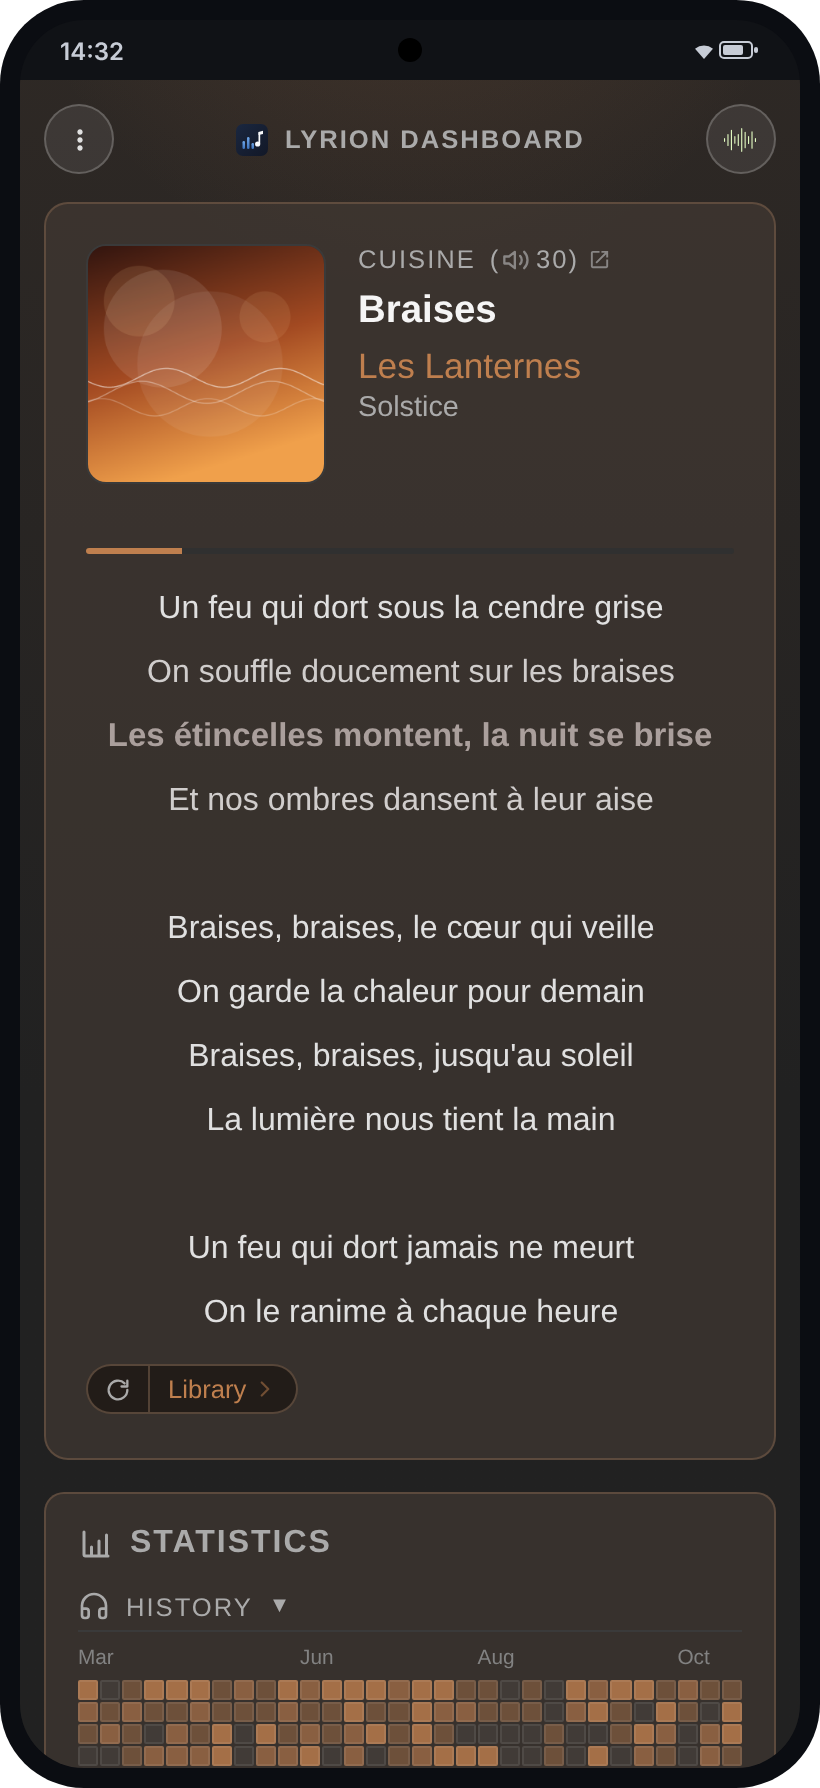
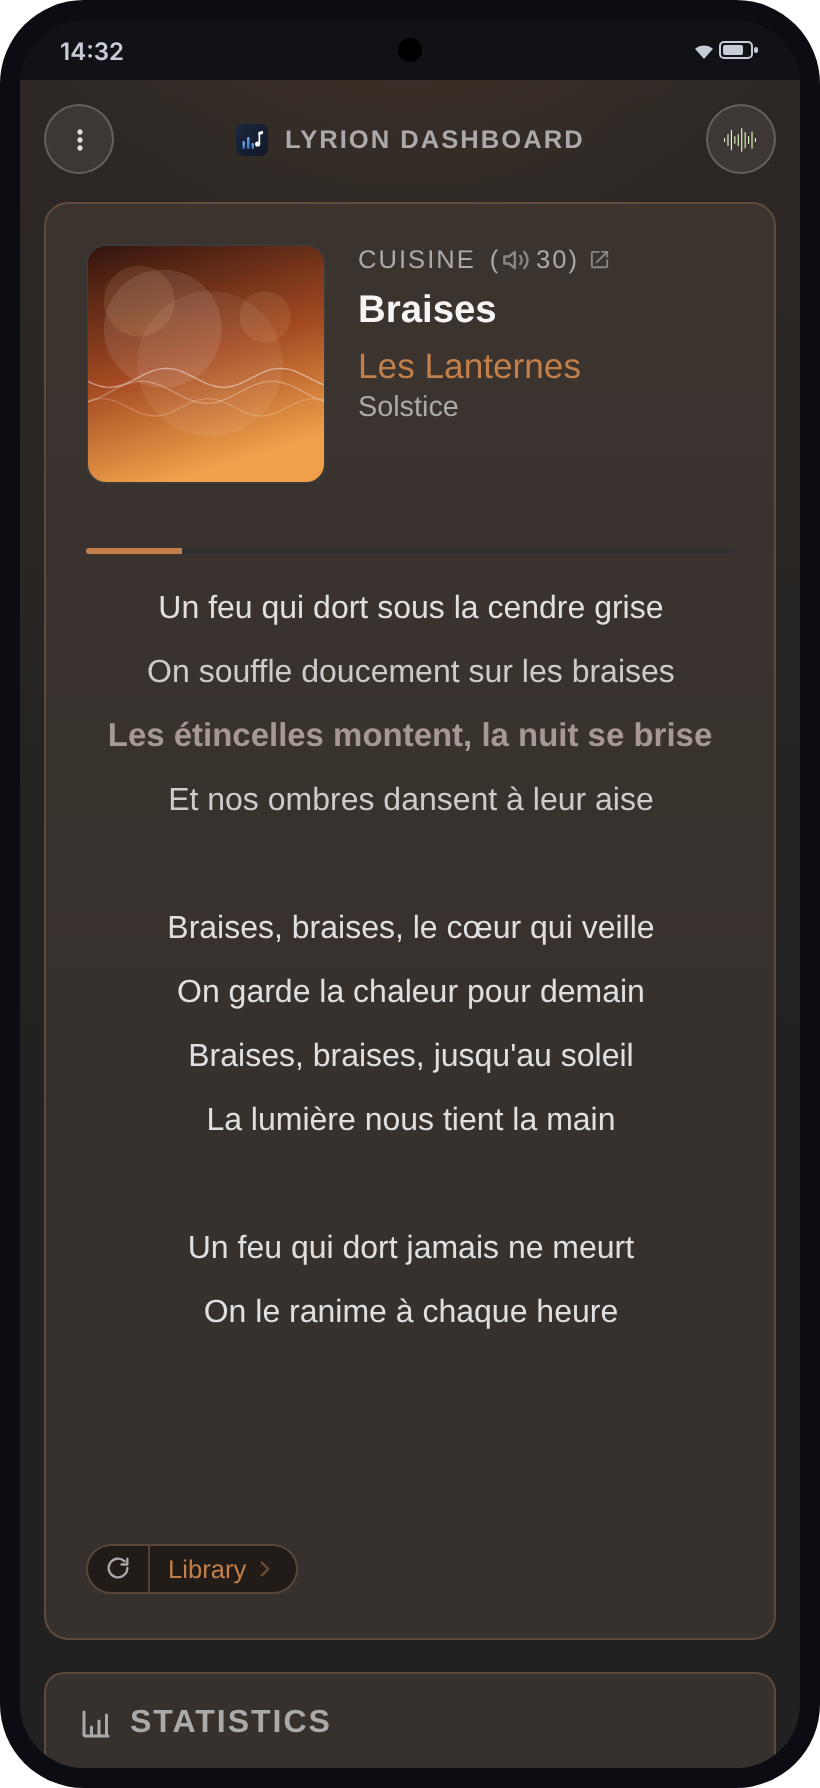
feat(nowplaying): fit the phone card to the screen, with the stats panel peeking under it (#162)
* feat(nowplaying): split the phone page into a lyrics screen and a stats screen

On the narrow layout the lyrics sat in a 420px box scrolling inside the
scrolling page, and where the card ended was set by that cap rather
than the screen, so the stats panel and its calendar showed up half in
view under the lyrics.

When the track has lyrics, the card is now fitted to the viewport in
portrait as it already was in landscape (minus the in-app header), and
a mandatory scroll snap makes the page two screens: the card, then the
stats panel. Without lyrics, or idle, the card stays compact with the
stats right under it, as before. The condition is the version cycle
being non-empty, so the hidden stop never shrinks the card under the
finger, which also leaves holdLyricsHeight with nothing to do.

With the stats panel a screen of its own, its groups no longer fold
under 860px, and the calendar draws days down to 7px there, about 41
weeks on a 390px phone instead of 30.

Claude-Session: https://claude.ai/code/session_016eBy9VSY9TVJAsZPgDEpkV

* fix(nowplaying): let the stats panel peek under the phone card, no snap

The full-screen card gave no hint that the stats panel was below it,
and the mandatory snap made the oversized stats screen feel stuck in
place while it scrolled.

The snap is gone, so the page scrolls freely. In portrait the fitted
card now stops 64px short of the screen's bottom, leaving the stats
panel's top edge and title in view; in landscape it keeps the full
[…]

Changed region(s): [[0.0915, 0.8305, 0.9146, 1.0], [0.2134, 0.769, 0.3049, 0.7998], [0.122, 0.769, 0.1829, 0.7998]]

diff --git a/static/style.css b/static/style.css
@@ -32,6 +32,8 @@
     --text-on-accent: #1a1a1a; /* dark glyphs/labels on accent-filled controls */
     --border-color: #3a3a3a;   /* hairlines: rules, cover edge */
     --page-pad: 16px;          /* body gutter, subtracted by the viewport-fitting calc */
+    --header-h: 0px;           /* the in-app header's height with its margin, subtracted likewise */
+    --stats-peek: 64px;        /* the stats panel's top a fitted narrow card leaves in view, gutter included */
     --surface: #303030;        /* raised neutral fills: progress track, cards */
     --empty-fill: rgba(255, 255, 255, 0.05);  /* a play level never reached, a day without plays */
     --cell-edge: inset 0 0 0 1px rgba(255, 255, 255, 0.08);
@@ -1192,10 +1194,16 @@ body.in-app .np-pull {
     display: none;
 }
 
+body.in-app {
+    /* The header's tallest child is a 2.2rem .lyrion-link. */
+    --header-h: calc(2.2rem + 14px);
+}
+
 body.in-app .page-header {
     display: grid;
     grid-template-columns: 1fr auto 1fr;
     align-items: center;
+    height: 2.2rem;
     margin-bottom: 14px;
 }
 
@@ -1400,8 +1408,8 @@ body.in-app .page-header {
     color: var(--text);
 }
 
-/* The stacked card grows with the lyrics, so the enlarged cover squares it off. */
 @media (max-width: 860px) and (min-height: 601px) {
+    /* The stacked card is taller than wide, so the enlarged cover squares it off. */
     .left-panel.is-zoomed .now-playing {
         /* Definite, so the ratio squares the card off the panel's width; left
            auto, the animated height would drive the width instead. */
@@ -1553,8 +1561,8 @@ body.in-app .page-header {
     }
 }
 
-/* Floor the card, per cover size, so the idle mosaic and a lyrics-less playing
-   card share a height instead of the card growing when playback starts. */
+/* Floor the compact card, per cover size, so the idle mosaic and a lyrics-less
+   playing card share a height instead of the card growing when playback starts. */
 @media (min-width: 541px) and (max-width: 860px) {
     .now-playing {
         min-height: 345px;
@@ -1578,33 +1586,39 @@ body.in-app .page-header {
     }
 }
 
-/* Narrow landscape keeps the scrollable page — the stats panel is below the
-   fold — but fits the card to the visible viewport so nothing is cut off. */
-@media (max-height: 600px) and (orientation: landscape) and (max-width: 860px) {
-    .left-panel {
+/* With lyrics, the narrow card fills the viewport but for --stats-peek, which leaves
+   the stats panel's top in view; must match fitLyrics in nowplaying.js. */
+@media (max-width: 860px) and (orientation: landscape) {
+    :root {
+        --stats-peek: var(--page-pad);
+    }
+}
+
+@media (max-width: 860px) {
+    .lyrics-fit .left-panel:not(.is-zoomed) {
         display: flex;
         flex-direction: column;
         /* dvh, as in the fixed layout above. */
-        height: calc(100vh - 2 * var(--page-pad));
-        height: calc(100dvh - 2 * var(--page-pad));
+        height: calc(100vh - var(--page-pad) - var(--header-h) - var(--stats-peek));
+        height: calc(100dvh - var(--page-pad) - var(--header-h) - var(--stats-peek));
     }
-    .now-playing {
+    .lyrics-fit .now-playing {
         flex: 1 1 auto;
-        /* After the card's min-height floors above, which this overrides. */
         min-height: 0;
         grid-template-rows: auto 1fr;
         overflow: hidden;
     }
-    .np-lyrics-block {
+    .lyrics-fit .np-lyrics-block {
         display: flex;
         flex-direction: column;
         min-height: 0;
         /* The card's align-items:start would size this to its content. */
         align-self: stretch;
     }
-    .np-lyrics {
+    .lyrics-fit .np-lyrics {
         /* Basis 0, as in the fixed layout. */
         flex: 1 1 0;
+        max-height: none;
     }
 }
 

diff --git a/static/nowplaying.js b/static/nowplaying.js
@@ -623,8 +623,15 @@ function versionLength(version) {
     return ' \u00b7 ' + Math.floor(secs / 60) + ':' + ('0' + (Math.round(secs) % 60)).slice(-2);
 }
 
+// Stacked, a card with lyrics is fitted to the screen; without, it stays compact over the stats.
+function fitLyrics() {
+    document.documentElement.classList.toggle('lyrics-fit',
+        versions.length > 0 && !nowPlaying.classList.contains('is-empty'));
+}
+
 // Callers run right after setLyrics(), so lrcLines tells whether the text on screen is synced.
 function updateSource() {
+    fitLyrics();
     if (!el.source) { return; }
     var version = versions[versionIdx];
     var label = version && (lyricsHidden ? I18N.lyrics_hidden_chip : sourceLabel(version));
@@ -764,7 +771,6 @@ function landOnVersions(current) {
 if (el.source) {
     el.source.addEventListener('click', function() {
         if (!versions.length) { return; }
-        holdLyricsHeight();
         if (lyricsHidden) {
             rememberHidden(false);
             showVersion(0);
@@ -776,23 +782,6 @@ if (el.source) {
         }
     });
 }
-
-// Released on a width change only: the mobile URL bar resizes the height on scroll.
-var heldWidth = 0;
-function holdLyricsHeight() {
-    // The fitted layouts size the box from the viewport (flex-basis 0), not from its text.
-    if (getComputedStyle(el.lyrics).flexBasis === '0px') { return; }
-    el.lyrics.style.minHeight = el.lyrics.offsetHeight + 'px';
-    heldWidth = window.innerWidth;
-}
-
-function releaseLyricsHeight() {
-    el.lyrics.style.minHeight = '';
-}
-
-window.addEventListener('resize', function() {
-    if (window.innerWidth !== heldWidth) { releaseLyricsHeight(); }
-});
 
 function setSearching(on) {
     searching = on;
@@ -1262,6 +1251,7 @@ function render(data) {
     if (!data || !data.track_id) {
         nowPlaying.classList.add('is-empty');
         nowPlaying.classList.remove('is-paused');
+        fitLyrics();
         loadMosaic();
         startMosaic();
         // The listens that just ended reorder the pile, so the next playback refetches it.
@@ -1317,7 +1307,6 @@ function render(data) {
     var trackKey = [data.track_id, data.title, data.artist, data.album].join('|');
     if (trackKey !== lastTrackKey) {
         lastTrackKey = trackKey;
-        releaseLyricsHeight();
         currentTrack = data;
         // COVER_SIZE is the /cover route's cap; remote artwork has no resize form.
         el.cover.src = data.artwork_url
@@ -1869,6 +1858,13 @@ var calendarShown = '';
 var calendarData = null;
 // The smallest day the expanded strip draws; it shows as many recent weeks as fit at that size.
 var CALENDAR_MIN_DAY_PX = 10;
+var CALENDAR_MIN_DAY_PX_STACKED = 7;
+// The stacked layout, where the stats panel spans the page; must match style.css.
+var STACKED_MQ = '(max-width: 860px)';
+
+function isStacked() {
+    return !!(window.matchMedia && window.matchMedia(STACKED_MQ).matches);
+}
 // A month is four or five week columns, too narrow for its name in the side panel.
 var CALENDAR_LABEL_WEEKS = 6;
 // The shortest span the strip draws, which caps the size of its days.
@@ -1909,7 +1905,7 @@ function renderCalendar(calendar) {
     if (!box) { return; }
     calendarData = calendar;
     box.hidden = !calendar;
-    var columns = calendar ? Math.max(1, Math.floor((box.clientWidth + 1) / (CALENDAR_MIN_DAY_PX + 1))) : 0;
+    var columns = calendar ? Math.max(1, Math.floor((box.clientWidth + 1) / ((isStacked() ? CALENDAR_MIN_DAY_PX_STACKED : CALENDAR_MIN_DAY_PX) + 1))) : 0;
     var key = JSON.stringify(calendar) + '|' + columns;
     if (key === calendarShown) { return; }
     calendarShown = key;

diff --git a/.claude/skills/frontend/SKILL.md b/.claude/skills/frontend/SKILL.md
@@ -67,7 +67,7 @@ The `body.in-app` header is the one place held out of that tinting: `.lyrion-lin
 
 ## Fitting the viewport
 
-Two regimes, split at 861px wide. Above it the page itself is the viewport (`html`/`body` at `100dvh`, `overflow: hidden`) and every overflowing region scrolls internally. Below it the page scrolls, because the stats panel wraps under the card — but the card is still fitted to the visible viewport in landscape (`.left-panel` at `100dvh` minus the body gutter), so the lyrics box and the mode row under it are never left off screen. Both work the same way: the card is a grid of `auto 1fr` rows, `.np-lyrics-block` stretches into the `1fr` one, and `.np-lyrics` takes what is left with `flex: 1 1 0` — a basis of `auto` would size it from the synced lyrics' full content height and push the row below out of view. `100dvh`, never `100vh`, which is iOS Safari's *large* viewport. Beside the card, the stats panel is a quarter of the viewport clamped to 320–400px: 320px up to 1280px wide, where the card is already tight, and no wider than 400px so the card keeps the room and a stat's label stays near its figure.
+Two regimes, split at 861px wide. Above it the page itself is the viewport (`html`/`body` at `100dvh`, `overflow: hidden`) and every overflowing region scrolls internally. Below it the page scrolls, because the stats panel wraps under the card, and what the card does depends on whether the track has lyrics. With at least one version in the cycle (`fitLyrics` sets `html.lyrics-fit`), the card is fitted to the visible viewport (`.left-panel` at `100dvh` minus the top gutter, `--header-h` — the in-app header's height — and `--stats-peek`), so where it ends follows the screen rather than the lyrics' length. In portrait `--stats-peek` (64px) leaves the stats panel's top edge and title in view under the card, the only cue that the page goes on; in landscape it is just the bottom gutter, as the lyrics cannot spare the room. The page itself scrolls freely — no scroll snap. Without lyrics (none found, or the idle mosaic) the card stays compact, floored at 345px/275px per cover size, with no snap, so the stats sit right under it as before. The condition is the cycle being non-empty rather than the text on screen, so the hidden stop never shrinks the card under the finger. The fitted layouts work the same way: the card is a grid of `auto 1fr` rows, `.np-lyrics-block` stretches into the `1fr` one, and `.np-lyrics` takes what is left with `flex: 1 1 0` — a basis of `auto` would size it from the synced lyrics' full content height and push the row below out of view. `100dvh`, never `100vh`, which is iOS Safari's *large* viewport. Beside the card, the stats panel is a quarter of the viewport clamped to 320–400px: 320px up to 1280px wide, where the card is already tight, and no wider than 400px so the card keeps the room and a stat's label stays near its figure.
 
 Every cover on the page keeps its artwork's ratio rather than a fixed square; `coverRatio` reads it from the image's `naturalWidth/naturalHeight` once loaded, clamped to `[COVER_R_MIN, COVER_R_MAX]` (0.5–2). The card's `fitCardCover` sets it as `--np-cover-r` on `.np-cover`, and the box is as wide as its slot for a landscape picture, as tall as the slot is wide for a portrait one, centred across the slot — so the slot sizes below are its upper bound. On the stacked layouts (≤1080px) `.np-side` is centred vertically in the first row, so a landscape cover shorter than the meta sits level with its middle; above that the cover keeps its column's top edge, which the pile hangs from. `object-fit: cover` only crops past the clamp. The box hugging the picture is also what keeps the recent-plays pile tucked under its lower edge and the enlarged-cover FLIP starting from the picture itself.
 
@@ -89,7 +89,7 @@ The chip floats over the lyrics box's lower-**left** corner — the right edge i
 
 One upload often carries both forms, and `webVersions` emits both: an LRC whose timings fit the recording badly is unreadable as karaoke, and its plain text is then the one that reads, so it stays one tap away rather than being weighed against the synced words first. Synced entries are emitted before plain ones, matching the server's order, so the cap keeps trimming the least useful end.
 
-Two rules decide what lands on screen by itself (`landOnVersions`). Synced lyrics take it, since the library's own text is always plain; a plain web version only joins the cycle, as a second opinion on a library text that may be the wrong one, and the text on screen keeps it wherever ranking moved it. The control is a `<button>` that `disabled`s itself into a passive label only while a search runs. Where the box sizes to its text (the scrolling phone layout), a tap holds its height as an inline `min-height` (`holdLyricsHeight`), so a shorter version or the hidden stop never pulls the chip out from under the finger; the hold is released on a track change and on a width change — not a height change, which the mobile URL bar fires on scroll — and skipped in the fitted layouts, whose box takes its height from the viewport (`flex-basis: 0`).
+Two rules decide what lands on screen by itself (`landOnVersions`). Synced lyrics take it, since the library's own text is always plain; a plain web version only joins the cycle, as a second opinion on a library text that may be the wrong one, and the text on screen keeps it wherever ranking moved it. The control is a `<button>` that `disabled`s itself into a passive label only while a search runs. Whenever there is a version to cycle, the box takes its height from the viewport (`flex-basis: 0`) on every layout, so a shorter version or the hidden stop never pulls the chip out from under the finger.
 
 The cycle ends on one more stop past the last version (`lyricsHidden`, `showHidden`), where the chip reads `None (0/n)` — no source, ranked as the stop before the first: the box shows `lyrics_hidden` as an empty state, and the next tap starts over from the first version. It is how a text that matches nothing is cleared without a control of its own, so even a single version can be cycled. Stopping there remembers every version in the cycle, per device, in `localStorage` (`lyrion.hiddenLyrics`, the newest `HIDDEN_LYRICS_MAX`), keyed by artist|title plus a hash of the version's `textKey` rather than the track id, which a rescan renumbers. A track whose versions are all remembered opens hidden (`allHidden`), and ranking puts remembered ones last, so a version found later takes the top and shows by itself. Leaving the stop forgets them.
 
@@ -107,7 +107,7 @@ There is no close button: a click anywhere on the overlay closes it, as does Esc
 
 The overlay has no surface of its own — the panel keeps its card background, and the card's content is what clears out under it (`.left-panel.is-zoomed .now-playing > *`, faded by `animateCardContent`). On the stacked layouts the overlay drops its padding so the picture runs edge to edge, the same width as the stats panel under it; `--cover-zoom-radius` keeps the picture's corners on the card's.
 
-`.cover-zoom-figure` is sized as the largest box of the artwork's ratio that fits the panel — `--cover-r` (set from the card image's `naturalWidth/naturalHeight`, already decoded when the view opens, and settled again when the enlarged image loads — on a track change the card's copy still carries the previous artwork's dimensions) plus a `100cqh` width off the overlay's container query. The picture fills that box, upscaled when the panel is bigger than the artwork, and the rounded edge, shadow and caption hug the picture rather than a letterboxed box. On the stacked layouts the card grows with the lyrics far past its own width, so `.left-panel.is-zoomed` squares it off.
+`.cover-zoom-figure` is sized as the largest box of the artwork's ratio that fits the panel — `--cover-r` (set from the card image's `naturalWidth/naturalHeight`, already decoded when the view opens, and settled again when the enlarged image loads — on a track change the card's copy still carries the previous artwork's dimensions) plus a `100cqh` width off the overlay's container query. The picture fills that box, upscaled when the panel is bigger than the artwork, and the rounded edge, shadow and caption hug the picture rather than a letterboxed box. On the stacked portrait layouts the card is taller than wide — a fitted screen with lyrics, or a compact card shorter than wide without — so `.left-panel.is-zoomed` squares it off, dropping the fitted height while open.
 
 The caption (`.cover-zoom-meta`) is a plaque hugging its text near the picture's lower edge, not a band across it: absolutely positioned with `width: fit-content` and auto margins. Its tint and its frosting are two layers, stacked under the text by `z-index`: `.cover-zoom-frost` (a span in the template) carries the `backdrop-filter`, and `::before` carries the tint as a rounded box that its own `filter: blur()` feathers, so the plaque has no outline. They stay apart because an engine may drop a `filter` on an element that also has a `backdrop-filter` — the Android WebView does — which cost the plaque its soft edge when one layer carried both. For the same reason the frosting cannot be feathered by a filter, so a radial-gradient mask fades it out inside the tint: unmasked, it shows as a smeared rectangle wherever the artwork under the plaque is lighter or darker than its surroundings.
 
@@ -121,7 +121,7 @@ The card shows a 512px thumbnail; the overlay paints that cached thumbnail first
 
 Each `.stat-group` folds on a click of its title; collapsed, it hides its `.stat-row`s but keeps its title total and its `.stat-bar`. The completion groups (tracks, albums, both artist counts) carry that bar: one `.stat-bar-seg` per sub row, sized by `flex-grow` from the row's percentage. The CSP refuses inline `style` attributes, so the template ships each percentage as `data-pct` and `paintStatBars` applies it through the CSSOM, on load and after every `/stats.json` poll; a zero segment is `hidden` so it leaves no gap. Each segment's `title` is copied from its legend row (`statBarTitle`), so hovering the bar of a collapsed group still gives the figures. A `stat-level-1`…`stat-level-4` class on both the segment and its row sets `--level-color`, the row's square marker doubling as the bar's legend: the accent for the most played, then the accent at 70% and 40% opacity over the card, and `--empty-fill` (a 5% white veil) for never played. Segments and markers carry `--cell-edge`, a 1px translucent inset outline: the same scale and outline as the listening calendar, so a level never reached stays faint instead of standing out.
 
-The History group opens with the listening calendar (`#listening-calendar`) when `/stats.json` carries a `listening_calendar`, hidden otherwise. It ships as JSON in `#calendar-data` and `renderCalendar` rebuilds it — only when the data changed — on load and after each stats poll: one column per Monday-to-Sunday week up to the server's `today`, starting a year back or at the history's `start` when that is younger — though never fewer than `CALENDAR_MIN_WEEKS` (26) columns, which caps the size of a day — `calendar-level-0` (`--empty-fill`, as for the bars' never-played level) for a day without plays and four shades cut at the quartiles of the days with plays, so they fit each library's pace: the accent at 40, 60 and 80% opacity over the card, then the accent itself, so even the quietest day reads as orange and a day with no plays stays faint instead of standing out. Every shaded cell, zero included, carries `--cell-edge`, which is what tells a zero apart from an empty slot. Days before the history's `start`, only drawn when the history is shorter than that minimum, stay transparent, unoutlined and unlabelled, so they never read as days without music. Month names come from `Intl` in the page's language, from the history's first column on and one every `CALENDAR_LABEL_WEEKS` columns since a month is too narrow for its name in the side panel; each day's `title` carries its date and count. The legend under it follows each shade with its upper bound (`.calendar-bound`): 0, the three quartile thresholds, then the busiest day's count. The expanded strip then keeps only the most recent weeks that fit the box at `CALENDAR_MIN_DAY_PX` (10px) a day — about 26 to 33 in the side panel — measured from the box's width and redrawn on resize, so a year's history never shrinks the days below that. Collapsing the History group swaps it for `.calendar-weeks`, one row with a cell per week of the same span, shaded at the quartiles of the week totals (`calendarWeeks`), and reveals the 12-month figure in the group title (`.collapsed-only`, titled with its label); expanded, the row and the title figure hide again. Below it, a velocity whose `_partial` flag is set (`data-stat-partial`) reads `≥ N` with `velocity_partial` as its title, rendered by the template and kept by `renderStats`.
+The History group opens with the listening calendar (`#listening-calendar`) when `/stats.json` carries a `listening_calendar`, hidden otherwise. It ships as JSON in `#calendar-data` and `renderCalendar` rebuilds it — only when the data changed — on load and after each stats poll: one column per Monday-to-Sunday week up to the server's `today`, starting a year back or at the history's `start` when that is younger — though never fewer than `CALENDAR_MIN_WEEKS` (26) columns, which caps the size of a day — `calendar-level-0` (`--empty-fill`, as for the bars' never-played level) for a day without plays and four shades cut at the quartiles of the days with plays, so they fit each library's pace: the accent at 40, 60 and 80% opacity over the card, then the accent itself, so even the quietest day reads as orange and a day with no plays stays faint instead of standing out. Every shaded cell, zero included, carries `--cell-edge`, which is what tells a zero apart from an empty slot. Days before the history's `start`, only drawn when the history is shorter than that minimum, stay transparent, unoutlined and unlabelled, so they never read as days without music. Month names come from `Intl` in the page's language, from the history's first column on and one every `CALENDAR_LABEL_WEEKS` columns since a month is too narrow for its name in the side panel; each day's `title` carries its date and count. The legend under it follows each shade with its upper bound (`.calendar-bound`): 0, the three quartile thresholds, then the busiest day's count. The expanded strip then keeps only the most recent weeks that fit the box at `CALENDAR_MIN_DAY_PX` (10px) a day — about 26 to 33 in the side panel — or `CALENDAR_MIN_DAY_PX_STACKED` (7px) on the stacked layouts (`STACKED_MQ`, 860px and below), where the panel spans the page, about 41 on a 390px phone, measured from the box's width and redrawn on resize, so a year's history never shrinks the days below that. Collapsing the History group swaps it for `.calendar-weeks`, one row with a cell per week of the same span, shaded at the quartiles of the week totals (`calendarWeeks`), and reveals the 12-month figure in the group title (`.collapsed-only`, titled with its label); expanded, the row and the title figure hide again. Below it, a velocity whose `_partial` flag is set (`data-stat-partial`) reads `≥ N` with `velocity_partial` as its title, rendered by the template and kept by `renderStats`.
 
 ## Mosaic and recent-plays pile
 
